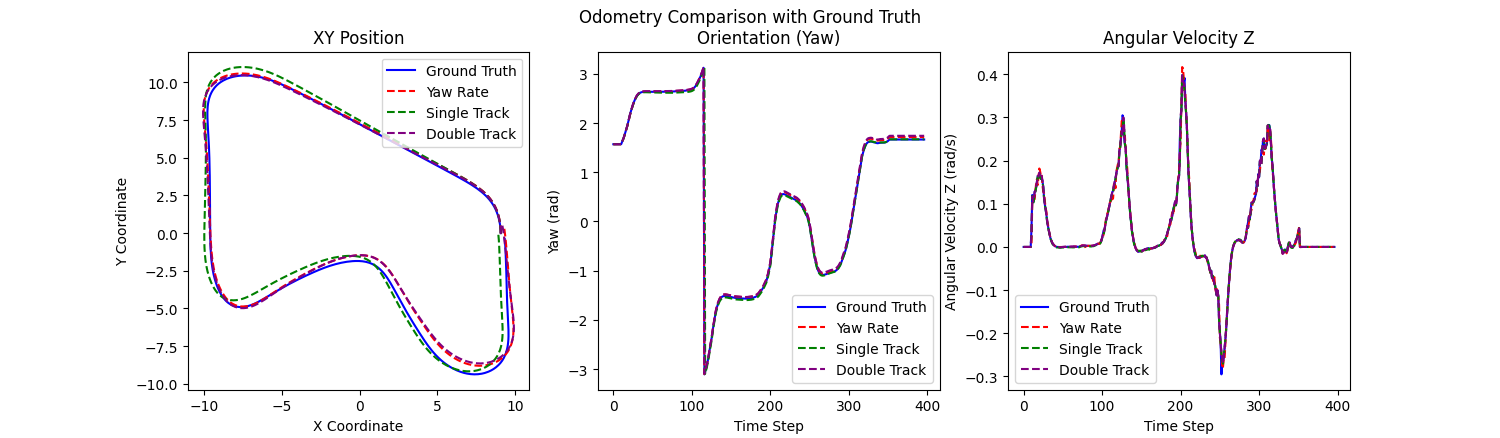
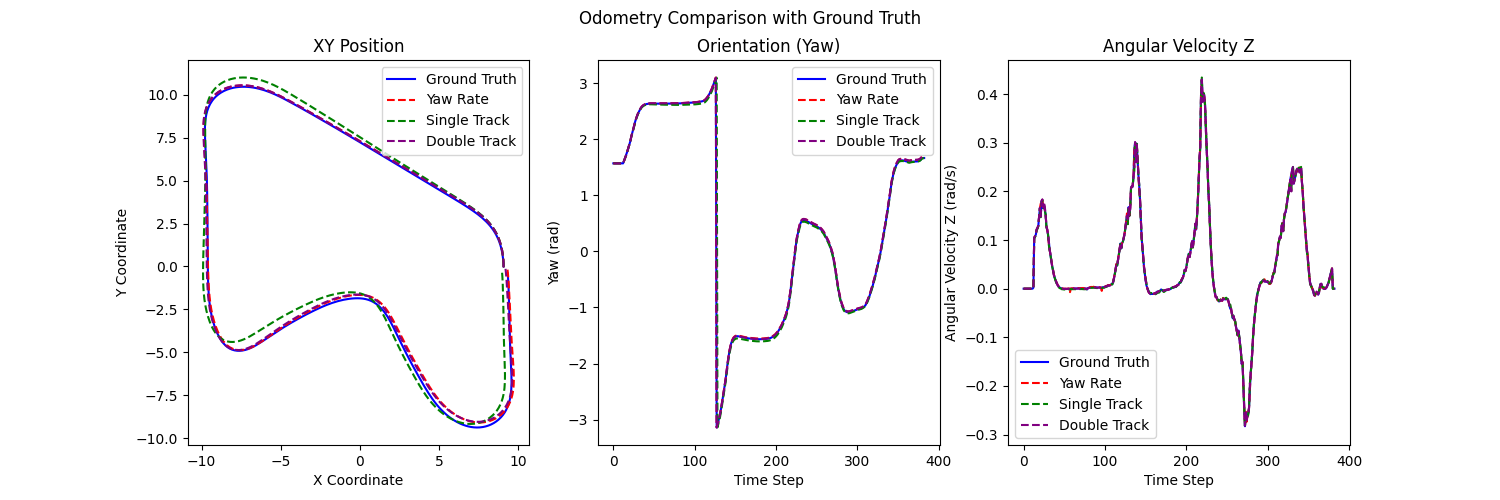
Varidate

diff --git a/limo_controller/scripts/xyz_plotter_separate.py b/limo_controller/scripts/xyz_plotter_separate.py
@@ -1,0 +1,123 @@
+#!/usr/bin/python3
+
+from limo_controller.dummy_module import dummy_function, dummy_var
+import rclpy
+from rclpy.node import Node
+from nav_msgs.msg import Odometry
+import matplotlib.pyplot as plt
+import matplotlib.animation as animation
+import numpy as np
+import os
+from tf_transformations import euler_from_quaternion
+
+class OdometryPlotter(Node):
+    def __init__(self):
+        super().__init__('odometry_plotter')
+        self.declare_parameter('update_rate', 0.01)
+        self.update_rate = self.get_parameter('update_rate').value
+
+        # Subscriptions
+        self.sub_ground_truth = self.create_subscription(Odometry, '/odometry/ground_truth', self.callback_ground_truth, 10)
+        self.sub_yaw_rate = self.create_subscription(Odometry, '/odometry/yaw_rate', self.callback_yaw_rate, 10)
+        self.sub_single_track = self.create_subscription(Odometry, '/odometry/single_track', self.callback_single_track, 10)
+        self.sub_double_track = self.create_subscription(Odometry, '/odometry/double_track', self.callback_double_track, 10)
+
+        # Data storage
+        self.data = {
+            'ground_truth': {'x': [], 'y': [], 'yaw': [], 'ang_z': []},
+            'yaw_rate': {'x': [], 'y': [], 'yaw': [], 'ang_z': []},
+            'single_track': {'x': [], 'y': [], 'yaw': [], 'ang_z': []},
+            'double_track': {'x': [], 'y': [], 'yaw': [], 'ang_z': []}
+        }
+
+        # Timer
+        self.timer = self.create_timer(self.update_rate, self.update_plot)
+
+        # Matplotlib setup
+        self.fig, self.axes = plt.subplots(3, 3, figsize=(12, 12))
+        self.fig.suptitle('Odometry Comparison with Ground Truth')
+
+    def process_odom(self, msg, key):
+        self.data[key]['x'].append(msg.pose.pose.position.x)
+        self.data[key]['y'].append(msg.pose.pose.position.y)
+        quat = msg.pose.pose.orientation
+        _, _, yaw = euler_from_quaternion([quat.x, quat.y, quat.z, quat.w])
+        self.data[key]['yaw'].append(yaw)
+        self.data[key]['ang_z'].append(msg.twist.twist.angular.z)
+
+    def callback_ground_truth(self, msg):
+        self.process_odom(msg, 'ground_truth')
+
+    def callback_yaw_rate(self, msg):
+        self.process_odom(msg, 'yaw_rate')
+
+    def callback_single_track(self, msg):
+        self.process_odom(msg, 'single_track')
+
+    def callback_double_track(self, msg):
+        self.process_odom(msg, 'double_track')
+
+    def update_plot(self):
+        for ax in self.axes.flatten():
+            ax.clear()
+
+        labels = ['Yaw Rate', 'Single Track', 'Double Track']
+        keys = ['yaw_rate', 'single_track', 'double_track']
+        colors = ['red', 'green', 'purple']
+
+        for i, (label, key, color) in enumerate(zip(labels, keys, colors)):
+            # XY Position
+            self.axes[0][i].plot(self.data['ground_truth']['x'], self.data['ground_truth']['y'], label='Ground Truth', linestyle='-', color='blue')
+            self.axes[0][i].plot(self.data[key]['x'], self.data[key]['y'], label=label, linestyle='-.', color=color)
+            self.axes[0][i].set_title(f'Ground Truth vs {label} (XY)')
+            self.axes[0][i].set_xlabel('X Coordinate')
+            self.axes[0][i].set_ylabel('Y Coordinate')
+            self.axes[0][i].legend()
+
+            # Orientation (Yaw)
+            self.axes[1][i].plot(self.data['ground_truth']['yaw'], label='Ground Truth', linestyle='-', color='blue')
+            self.axes[1][i].plot(self.data[key]['yaw'], label=label, linestyle='-.', color=color)
+            self.axes[1][i].set_title(f'Ground Truth vs {label} (Yaw)')
+            self.axes[1][i].set_xlabel('Time Step')
+            self.axes[1][i].set_ylabel('Yaw (rad)')
+            self.axes[1][i].legend()
+
+            # Angular Velocity Z
+            self.axes[2][i].plot(self.data['ground_truth']['ang_z'], label='Ground Truth', linestyle='-', color='blue')
+            self.axes[2][i].plot(self.data[key]['ang_z'], label=label, linestyle='-.', color=color)
+            self.axes[2][i].set_title(f'Ground Truth vs {label} (Angular Velocity Z)')
+            self.axes[2][i].set_xlabel('Time Step')
+            self.axes[2][i].set_ylabel('Angular Velocity Z (rad/s)')
+            self.axes[2][i].legend()
+
+        plt.pause(0.001)
+
+    def save_plots(self):
+        output_dir = 'plots'
+        os.makedirs(output_dir, exist_ok=True)
+        self.fig.savefig(os.path.join(output_dir, 'odometry_comparison.png'))
+        self.get_logger().info('Plots saved as odometry_comparison.png')
+
+    def destroy_node(self):
+        self.save_plots()
+        super().destroy_node()
+
+
+def main(args=None):
+    rclpy.init(args=args)
+    node = OdometryPlotter()
+    try:
+        plt.ion()
+        rclpy.spin(node)
+    except KeyboardInterrupt:
+        pass
+    finally:
+        node.destroy_node()
+        plt.ioff()
+        plt.show()
+        rclpy.shutdown()
+
+
+if __name__ == '__main__':
+    main()
+

diff --git a/limo_controller/scripts/controller_server.py b/limo_controller/scripts/controller_server.py
@@ -74,7 +74,7 @@ class ControllerServer(Node):
         # Pure Puresuit controllers
         self.state = 0
         self.linear_speed_pure = PIDController(Kp=1.0, Ki=0.0, Kd=0.0)
-        self.lookahead_distance = 1.0 # Max = 4.5
+        self.lookahead_distance = 0.6 # Max = 4.5
 
         # Stanley controllers
         self.k = 1.0

diff --git a/README.md b/README.md
@@ -43,31 +43,37 @@
 ## Varidation
 ### Result
 ### 1. No-slip
-![all2_ackermann](./image/all2_ackermann.png)
+![good2_pure_ackermann](./image/good2_pure_ackermann.png)
 ### 2. Basic model
-![all2_bicycle](./image/all2_bicycle.png)
+![good2_pure_bicycle](./image/good2_pure_bicycle.png)
 
 ### Comparison of results from graphs
 **1.1 XY Trajectory**
 - **No-Slip**: have path that similar to Ground Truth and less slip than the *Basic model* path.
-- **Basic model**: More error-prone or slip, especially in path deviations, resulting in greater slip away from Ground Truth.
-- **Yaw Rate Model**: is the most accurate because it takes into account the Ackermann steering principle and obtains the Yaw Rate value from the gyroscope sensor (IMU) for the rotation.
-- **Single Track Model**: gives better results than Double Track Model but still has errors, especially in turning because the rotation is determined by the geometric orientation of the kinematic side-slip angles.
-- **Double Track Model**: has the greatest error compared to Ground Truth because the rotation is calculated from the velocity-difference between the two rear wheels. Since the velocity of the two rear wheels is always the same, the change in rotation should always be 0. However, from the graph, there may be some spikes which may be from wheel slip causing the velocity of the two rear wheels to be different.
+- **Basic model**: More error-prone or slip, especially effect to Yaw Rate and Double Track, resulting in greater slip away from Ground Truth especially when turn a curve.
+- **Yaw Rate Model**: is the high accurate because it takes into account the Ackermann steering principle and obtains the Yaw Rate value from the gyroscope sensor (IMU) for the rotation. But in *Basic Model* it have error a little bit because slip by wheel.
+- **Single Track Model**: gives better results in *Basic Model*  because this model determined rotation from front axle steering so when use *Basic Model* that have same left and right wheel angle, it will reduce error.
+- **Double Track Model**: has high accurate as *Yaw Rate Model* because the rotation is calculated from the velocity-difference between the two rear wheels. If mobile robot turn left, velocity of left rear wheel is less than right rear wheel opposite when turn right. so it can calcurate angular velocity from difference velocity of two rear wheel.But in *Basic Model* it have error a little bit because slip by wheel.
+
+    <img src=./image/v_turn_left.png width="300" height="200"/>
+    <img src=./image/v_turn_right.png width="300" height="200"/>
+
+    **Orange line** = velocity of rear right wheel.
+    **Brue line** = velocity of left right wheel
 
 **1.2 Yaw**
-- **No-Slip**: The yaw values tend to be closer to Ground Truth, especially for *Yaw Rate Model*.
-- **Basic model**: The yaw values has a greater slip from Ground Truth, as can be seen from the increased Yaw value compared to No-Slip. It because it have more slip when rotation.
-- **Yaw Rate Model**: Most accurate and follows Ground Truth well.
-- **Single Track Model**: Better performance but still has errors compared to Ground Truth.
-- **Double Track Model**: has the most error, especially during fast rotations.
+- **No-Slip**: All odometry model have yaw values tend to be closer to Ground Truth.
+- **Basic model**: All odometry model have yaw values greater slip from Ground Truth a little bit, as can be seen from the increased Yaw value compared to *No-Slip*. It because it have more slip when rotation.
+- **Yaw Rate Model**: High accurate and follows Ground Truth well.
+- **Single Track Model**: High accurate and follows Ground Truth well.
+- **Double Track Model**: High accurate and follows Ground Truth well.
 
 **1.3 Angular Velocity Z**
 - **No-Slip**: It is closer to Ground Truth, especially the *Yaw Rate Model* and have some noise in *Single Track Model*
-- **Basic model**: Same as *No-Slip* but in *Single Track Model* it has noise more than *No-Slip*.
-- **Yaw Rate Model**: Highest accuracy, it can track along Angular Velocity Z of Ground Truth because it obtains the Yaw Rate value from the gyroscope sensor (IMU)
-- **Single Track Model**:It's pretty close to Ground Truth, but it still has some errors.
-- **Double Track Model**:Has the highest error and highest swing.
+- **Basic model**: Same as *No-Slip*.
+- **Yaw Rate Model**: High accuracy, it can track along Angular Velocity Z of Ground Truth.
+- **Single Track Model**:High accuracy, it can track along Angular Velocity Z of Ground Truth.
+- **Double Track Model**: High accuracy, it can track along Angular Velocity Z of Ground Truth.
 
 ### Advantages and Disadvantages
 
@@ -90,22 +96,25 @@
 
 #### 3. Yaw Rate Model
 - **Advantages**
-    - Highest accuracy, especially in trajectory tracking and yaw from sensor IMU.
+    - High accuracy, especially in trajectory tracking and yaw from sensor IMU.
 - **Disadvantages**
     - Requaied sensor IMU.
     - Still have error from wheel odometry.
 
 #### 4. Single Track Model
 - **Advantages**
-    - Suitable for systems with Basic Model (Bicycle Model)
+    - Suitable for systems with *Basic Model* (Bicycle Model)
 - **Disadvantages**
     - Still has errors, especially in sharp turns.
+    - Still have error from wheel odometry.
 
 #### 5. Double Track  Model
 - **Advantages**
     - Suitable for systems with Differential Velocity Model that rotation from differential velocity of two rear wheel.
+    - High accuracy
 - **Disadvantages**
-    - Highest error, especially in XY trajectory for model Ackermann steering.
+    - More computationally intensive than the Single Track Model.
+    - Still have error from wheel odometry.
 
 # LAB 1.2 Path Tracking Controller
 First *Spawn robot* by command from LAB 1.1 then
@@ -122,7 +131,7 @@ First *Spawn robot* by command from LAB 1.1 then
     ```
     ros2 run limo_controller controller_server.py --ros-args -p control_mode:=stanley
     ```
-- Clear path of robot
+- Clear path of robot that visualize in rviz.
     ```bash
     ros2 service call /clear_path std_srvs/srv/Empty
     ```
